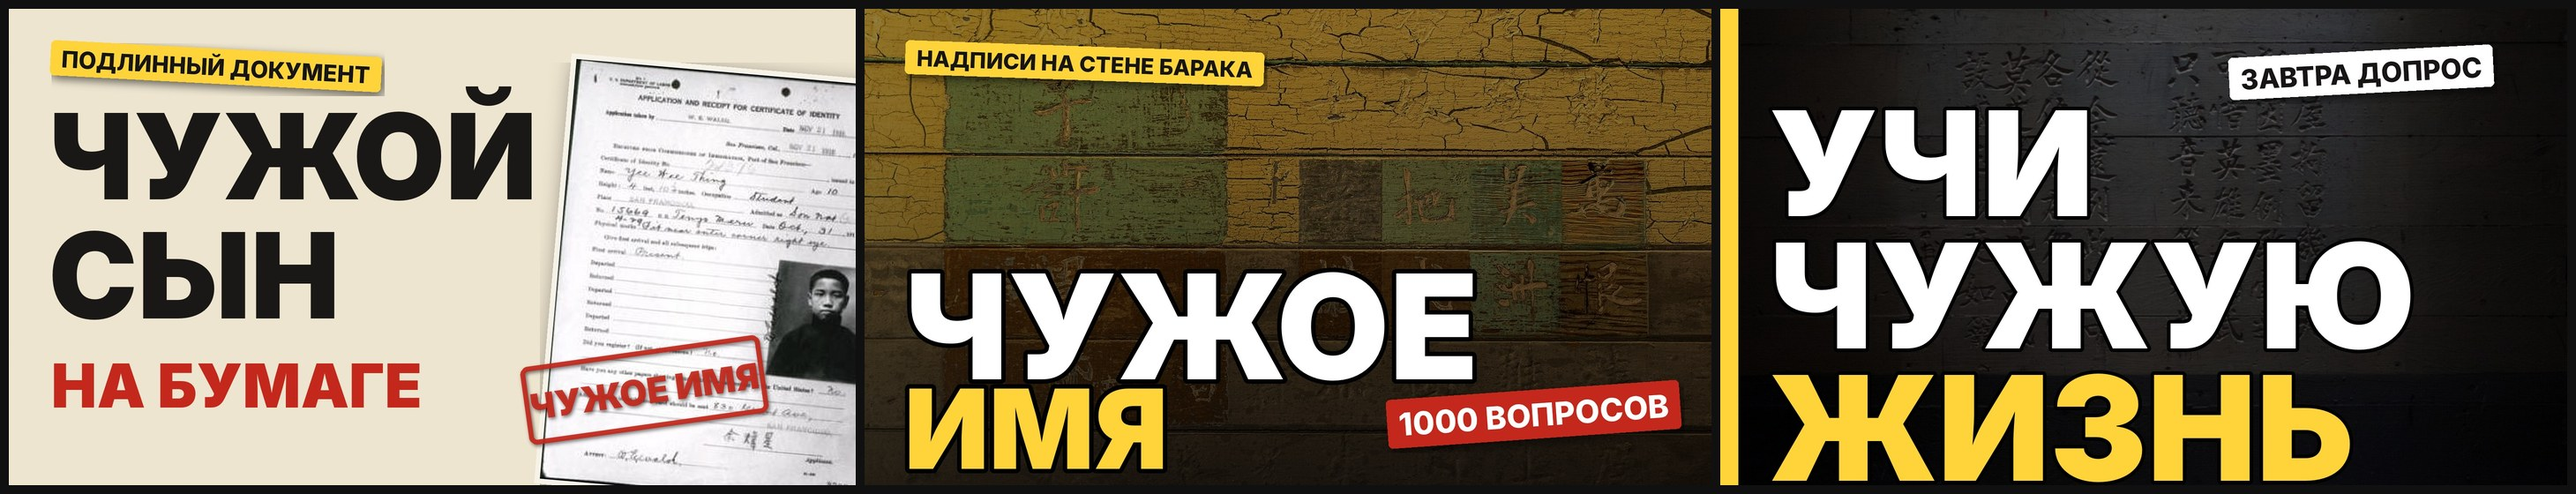
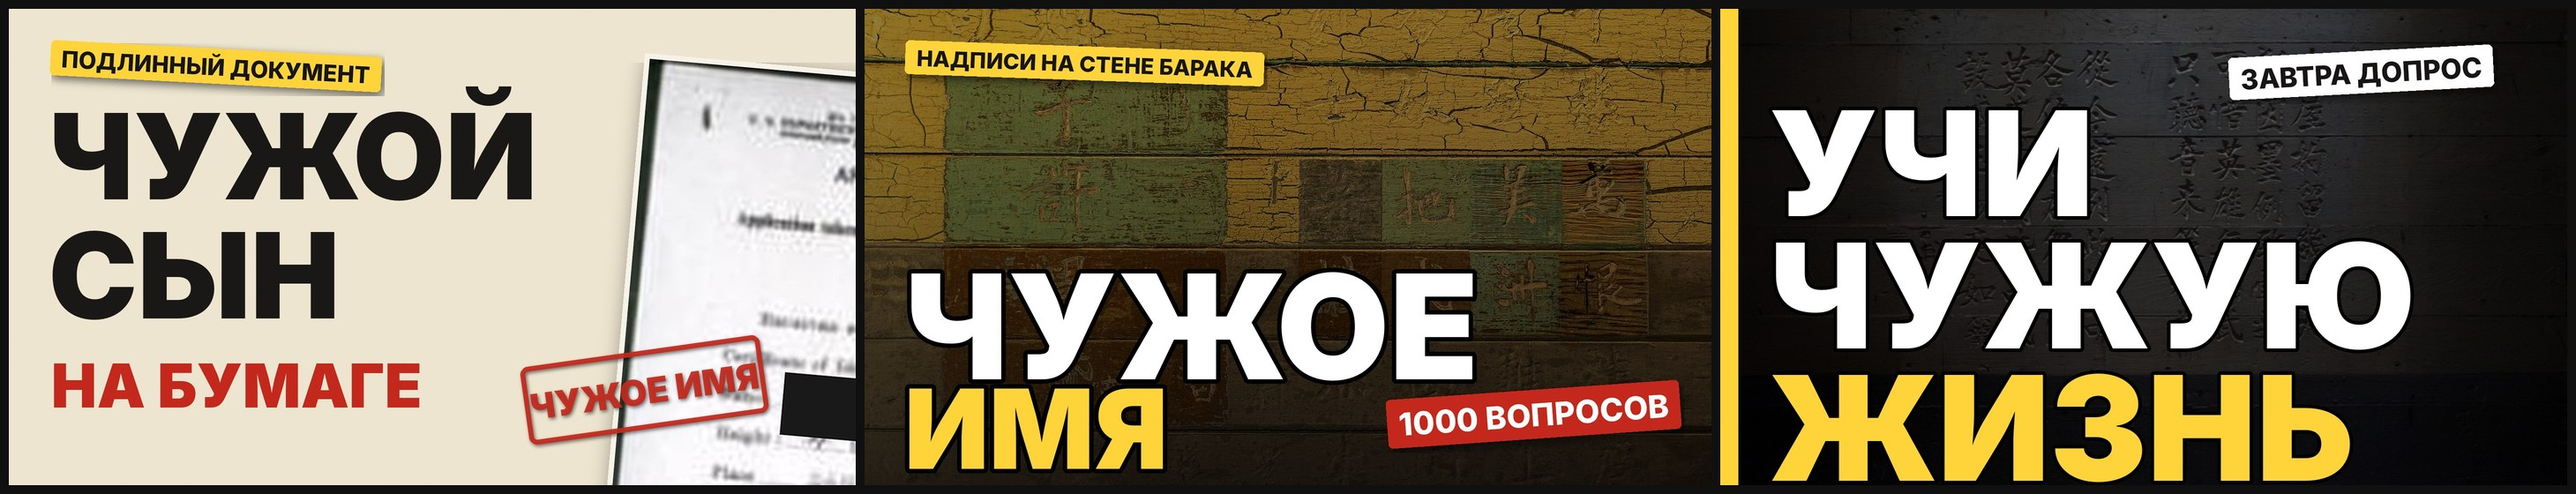
Paper sons: cover D (search keyword tag), feed-size comparison

Changed region(s): [[0.187, 0.1214, 0.3428, 1.0]]

diff --git a/ru_geo/paperson/cover/make_covers.py b/ru_geo/paperson/cover/make_covers.py
@@ -43,6 +43,18 @@ d.rectangle((0, 0, 40, H), fill=(255, 212, 59))
 text_o(d, (110, 150), 'УЧИ', F(330), (255, 255, 255), 8); text_o(d, (110, 450), 'ЧУЖУЮ', F(330), (255, 255, 255), 8); text_o(d, (110, 750), 'ЖИЗНЬ', F(330), (255, 212, 59), 8)
 tag(c, (1150, 80), 'ЗАВТРА ДОПРОС', fill=(255, 255, 255), size=62, ang=3)
 c.save(os.path.join(D, 'cover_c.jpg'), quality=92)
+
+# ---------------------------------------------------------------- D: как C, но с меткой-запросом «КИТАЙЦЫ В АМЕРИКЕ» и годом
+dd = cover(Image.open(A + 'poetry.jpg')); dd = ImageEnhance.Brightness(dd).enhance(0.55); dd = dd.filter(ImageFilter.GaussianBlur(1.2)); d = ImageDraw.Draw(dd)
+d.rectangle((0, 0, 40, H), fill=(255, 212, 59))
+text_o(d, (110, 190), 'УЧИ', F(310), (255, 255, 255), 8); text_o(d, (110, 480), 'ЧУЖУЮ', F(310), (255, 255, 255), 8); text_o(d, (110, 770), 'ЖИЗНЬ', F(310), (255, 212, 59), 8)
+tag(dd, (110, 60), 'КИТАЙЦЫ В АМЕРИКЕ', fill=(255, 255, 255), size=64, ang=-2); tag(dd, (1480, 880), '1925', fill=(196, 40, 28), fg=(255, 255, 255), size=80, ang=3)
+dd.save(os.path.join(D, 'cover_d.jpg'), quality=92)
+# сравнение в размере ленты (320x180)
+sh = Image.new('RGB', (330 * 4 + 10, 200), (16, 16, 16))
+for i, n in enumerate('abcd'): sh.paste(Image.open(os.path.join(D, f'cover_{n}.jpg')).resize((320, 180), Image.LANCZOS), (10 + i * 330, 10))
+sh.save(os.path.join(D, 'feed_size.jpg'), quality=90)
+
 # сравнение (в уменьшенном виде = как в ленте)
 sh = Image.new('RGB', (W // 2 * 3 + 40, H // 2 + 20), (16, 16, 16))
 for i, n in enumerate('abc'): sh.paste(Image.open(os.path.join(D, f'cover_{n}.jpg')).resize((W // 2, H // 2), Image.LANCZOS), (10 + i * (W // 2 + 10), 10))
